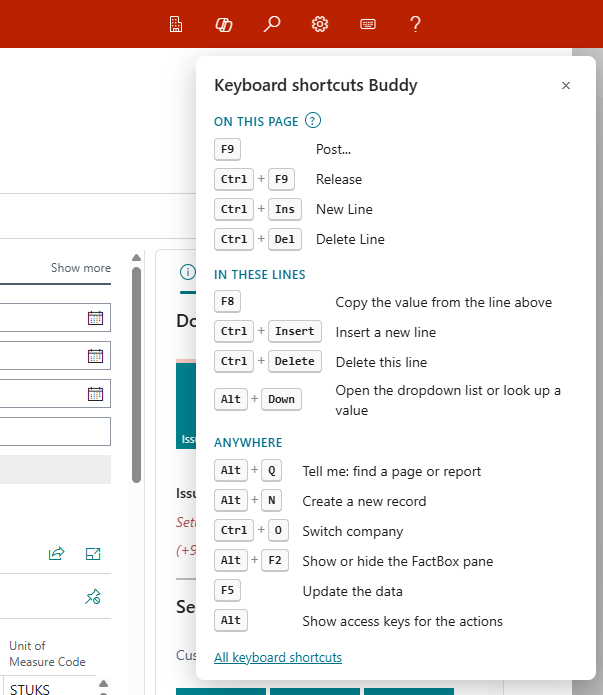
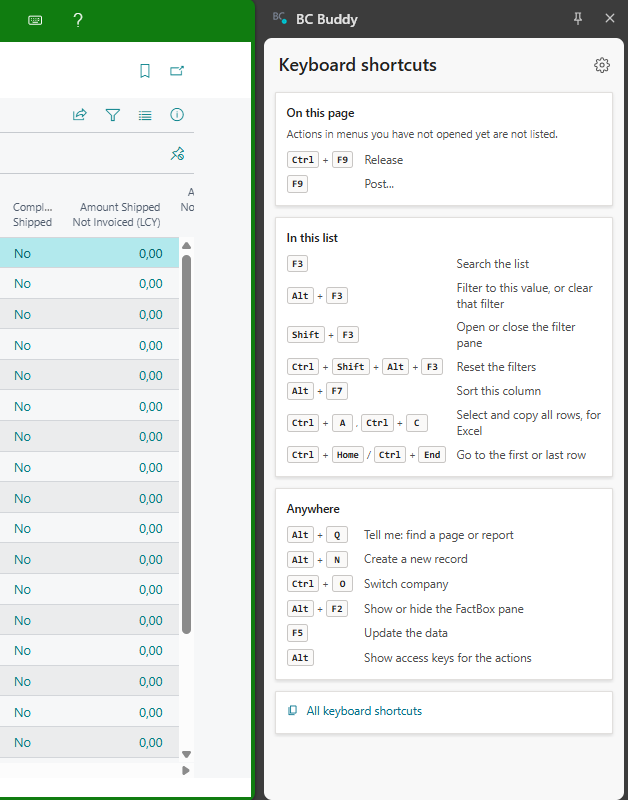
Deck and docs screenshots of the shortcuts side panel
The deck slide and the docs crop now show the keyboard shortcuts in the
browser's side panel. The slide text says where the panel opens; the
published deck is in another organization, so only the repo copy and
present.html are updated. The recipe notes that this shot is taken by
hand, with the logo, name and picture painted over.

Performance and security: screenshots and docs only, no code.

diff --git a/marketing/deck/present.html b/marketing/deck/present.html
@@ -290,19 +290,19 @@
 </div>
 <div style="flex:1;display:flex;flex-direction:row;gap:64px;align-items:center">
 <div style="flex:1;display:flex;flex-direction:column;gap:32px">
-<p style="font-size:32px;line-height:1.4;color:#3F4A55">Business Central hides its shortcuts at the end of a button's tooltip. BC Buddy puts a keyboard icon in the top bar that lists them:</p>
+<p style="font-size:32px;line-height:1.4;color:#3F4A55">Business Central hides its shortcuts at the end of a button's tooltip. BC Buddy puts a keyboard icon in the top bar that opens them in a side panel:</p>
 <div style="display:flex;flex-direction:column;gap:20px">
 <p style="font-size:28px;line-height:1.4;color:#3F4A55"><b>On this page:</b> the page's own actions, such as Post (F9)</p>
 <p style="font-size:28px;line-height:1.4;color:#3F4A55"><b>Where your cursor is:</b> the lines, the list, the card or the date field</p>
 <p style="font-size:28px;line-height:1.4;color:#3F4A55"><b>Anywhere:</b> a few that always work, such as Alt+Q</p>
 </div>
-<p style="font-size:28px;line-height:1.4;color:#3F4A55">The panel stays open while you work and changes along with the page.</p>
+<p style="font-size:28px;line-height:1.4;color:#3F4A55">The side panel sits next to Business Central, not on top of it, and changes along with the page.</p>
 </div>
 <div style="width:760px;height:640px;background:#E6E9E7;border-radius:16px;display:flex;align-items:center;justify-content:center">
-<img src="../screenshots/crop-with-keyboard-shortcuts.png" alt="The top right of a sales order with BC Buddy's keyboard icon in the top bar and its shortcuts panel open: the order's own actions, what works in the lines, and shortcuts that work anywhere" style="width:520px;height:600px;object-fit:contain;border:1px solid #D3D8DC;border-radius:8px">
+<img src="../screenshots/crop-with-keyboard-shortcuts.png" alt="The top right of the Sales Orders list with BC Buddy's keyboard icon in the top bar and the shortcuts side panel open: the list's own actions, what works in the list, and shortcuts that work anywhere" style="width:520px;height:600px;object-fit:contain;border:1px solid #D3D8DC;border-radius:8px">
 </div>
 </div>
-<aside>Keyboard shortcuts save a lot of clicks, but Business Central keeps them out of sight: the only place it shows one is at the end of a button's tooltip, and the full list is a long article on Microsoft's site. BC Buddy adds a keyboard icon to the top bar. One click opens a panel with the shortcuts that work where you are: the page's own actions, such as Post with F9, what works in the lines, the list or the date field you are in, and a few that work anywhere. The panel stays open and changes along when you open another page. This one starts off: each person switches it on in the settings.</aside>
+<aside>Keyboard shortcuts save a lot of clicks, but Business Central keeps them out of sight: the only place it shows one is at the end of a button's tooltip, and the full list is a long article on Microsoft's site. BC Buddy adds a keyboard icon to the top bar. One click opens a side panel next to Business Central with the shortcuts that work where you are: the page's own actions, such as Post with F9, what works in the lines, the list or the date field you are in, and a few that work anywhere. The panel stays open, changes along when you open another page, and closes by itself when you leave Business Central. This one starts off: each person switches it on in the settings.</aside>
 </section>
 <section id="stripes" data-transition="fade" style="background:#F5F4EF;color:#16222E;font-family:'IBM Plex Sans', Arial, sans-serif;padding:112px 128px;display:flex;flex-direction:column;gap:40px">
 <div style="display:flex;flex-direction:column;gap:8px">

diff --git a/marketing/deck/project/slides/shortcuts.html b/marketing/deck/project/slides/shortcuts.html
@@ -5,17 +5,17 @@
 </div>
 <div style="flex:1;display:flex;flex-direction:row;gap:64px;align-items:center">
 <div style="flex:1;display:flex;flex-direction:column;gap:32px">
-<p style="font-size:32px;line-height:1.4;color:#3F4A55">Business Central hides its shortcuts at the end of a button's tooltip. BC Buddy puts a keyboard icon in the top bar that lists them:</p>
+<p style="font-size:32px;line-height:1.4;color:#3F4A55">Business Central hides its shortcuts at the end of a button's tooltip. BC Buddy puts a keyboard icon in the top bar that opens them in a side panel:</p>
 <div style="display:flex;flex-direction:column;gap:20px">
 <p style="font-size:28px;line-height:1.4;color:#3F4A55"><b>On this page:</b> the page's own actions, such as Post (F9)</p>
 <p style="font-size:28px;line-height:1.4;color:#3F4A55"><b>Where your cursor is:</b> the lines, the list, the card or the date field</p>
 <p style="font-size:28px;line-height:1.4;color:#3F4A55"><b>Anywhere:</b> a few that always work, such as Alt+Q</p>
 </div>
-<p style="font-size:28px;line-height:1.4;color:#3F4A55">The panel stays open while you work and changes along with the page.</p>
+<p style="font-size:28px;line-height:1.4;color:#3F4A55">The side panel sits next to Business Central, not on top of it, and changes along with the page.</p>
 </div>
 <div style="width:760px;height:640px;background:#E6E9E7;border-radius:16px;display:flex;align-items:center;justify-content:center">
-<img src="/_blob/713db8844a4ea6c0053779dccff5edf8" alt="The top right of a sales order with BC Buddy's keyboard icon in the top bar and its shortcuts panel open: the order's own actions, what works in the lines, and shortcuts that work anywhere" style="width:520px;height:600px;object-fit:contain;border:1px solid #D3D8DC;border-radius:8px">
+<img src="/_blob/713db8844a4ea6c0053779dccff5edf8" alt="The top right of the Sales Orders list with BC Buddy's keyboard icon in the top bar and the shortcuts side panel open: the list's own actions, what works in the list, and shortcuts that work anywhere" style="width:520px;height:600px;object-fit:contain;border:1px solid #D3D8DC;border-radius:8px">
 </div>
 </div>
-<aside>Keyboard shortcuts save a lot of clicks, but Business Central keeps them out of sight: the only place it shows one is at the end of a button's tooltip, and the full list is a long article on Microsoft's site. BC Buddy adds a keyboard icon to the top bar. One click opens a panel with the shortcuts that work where you are: the page's own actions, such as Post with F9, what works in the lines, the list or the date field you are in, and a few that work anywhere. The panel stays open and changes along when you open another page. This one starts off: each person switches it on in the settings.</aside>
+<aside>Keyboard shortcuts save a lot of clicks, but Business Central keeps them out of sight: the only place it shows one is at the end of a button's tooltip, and the full list is a long article on Microsoft's site. BC Buddy adds a keyboard icon to the top bar. One click opens a side panel next to Business Central with the shortcuts that work where you are: the page's own actions, such as Post with F9, what works in the lines, the list or the date field you are in, and a few that work anywhere. The panel stays open, changes along when you open another page, and closes by itself when you leave Business Central. This one starts off: each person switches it on in the settings.</aside>
 </section>

diff --git a/marketing/README.md b/marketing/README.md
@@ -97,9 +97,12 @@ Areas (x0, y0, x1, y1 on the 1512×794 screenshot): copy values 40, 140, 620,
 current line 100, 590, 1045, 794, then keep only the first 525 px (Type to
 Description; the columns further right have red error marks in CRONUS) ·
 pin action bar: cropped from the JPEG at 90, 55, size 910 × 185.
-Keyboard shortcuts and striped rows were taken later in a 1568×735 window:
-keyboard shortcuts 1000, 0, 1560, 645 (the top bar icon and the panel) ·
-striped rows 45, 135, 1085, 700. Hide the FactBox pane was taken in an
+Striped rows was taken later in a 1568×735 window: 45, 135, 1085, 700.
+Keyboard shortcuts needs the browser's side panel, which the Chrome tool
+cannot capture: the maintainer takes the window (page plus side panel,
+without tab strip and address bar, 1508×800), the logo, name and picture
+are painted over in the bar's colour, and the crop is 880, 0, 1508, 800
+(the top bar icon and the side panel). Hide the FactBox pane was taken in an
 894×848 window, cropped to the page under the top bar: 60, 60, 834, 660 (this
 also leaves out an environment-colour frame or banner). Zoom at full scale: `scale` below 1 also
 shrinks the PNG it saves.
